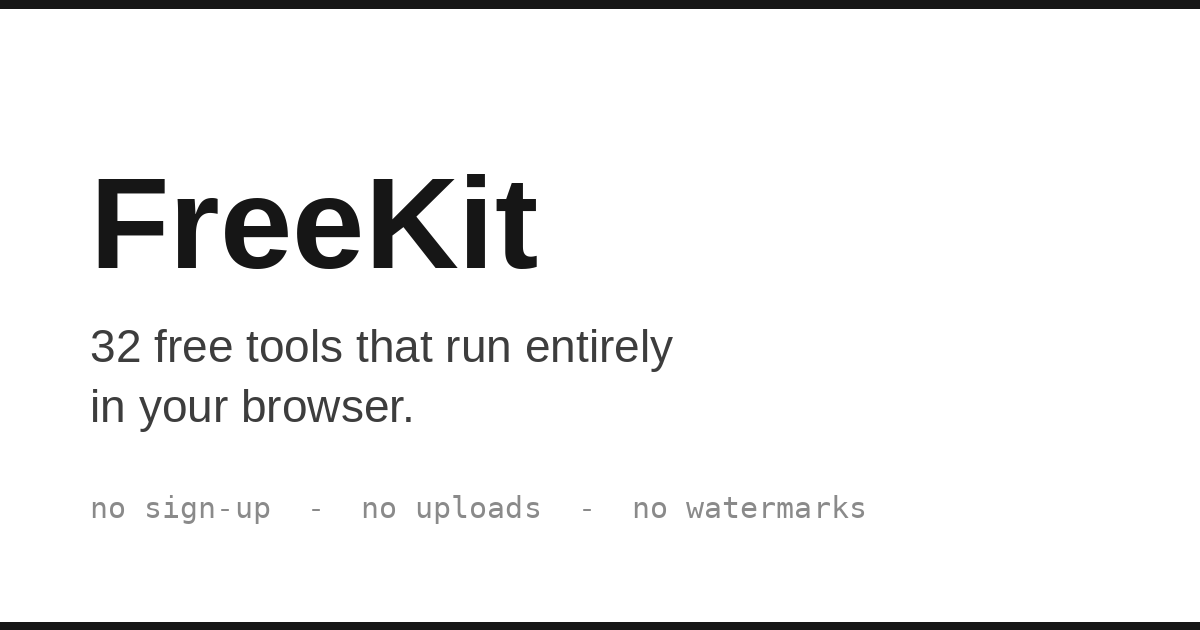
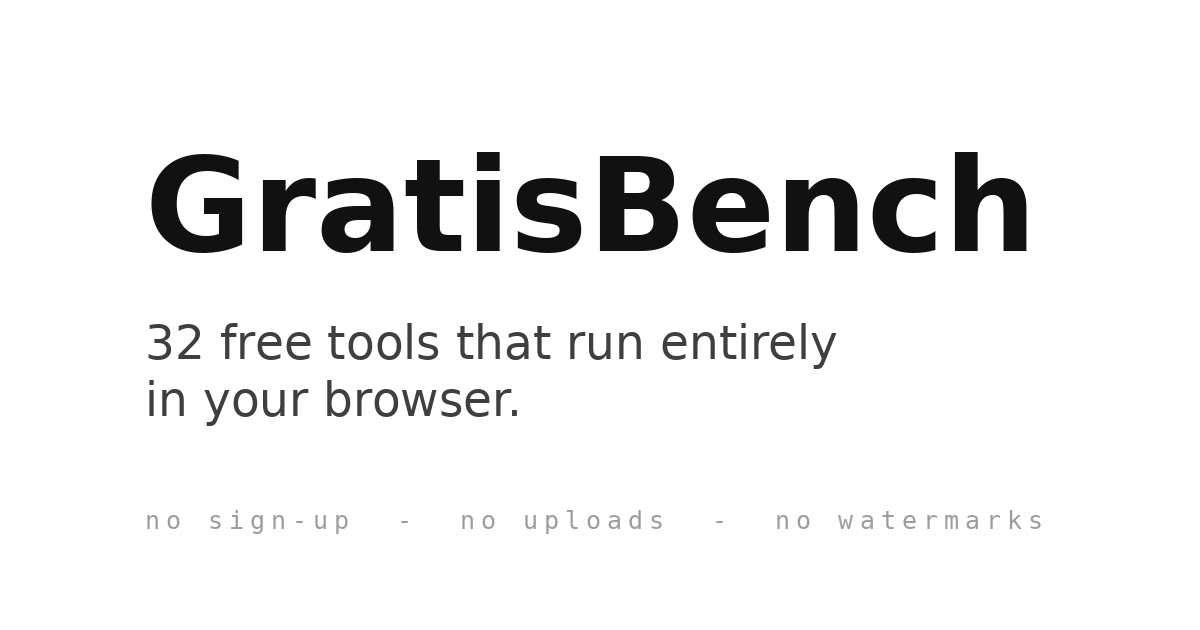
Rename FreeKit to GratisBench; add free-tools meta tags for SEO

diff --git a/src/lib/site.ts b/src/lib/site.ts
@@ -1,5 +1,5 @@
 // Site URL / base-path helpers. Used by layouts and pages so the site works
-// both at a domain root and under a subpath (e.g. GitHub Pages /freekit/).
+// both at a domain root and under a subpath (e.g. GitHub Pages /gratisbench/).
 // Never hardcode absolute internal links like "/pdf-tools" — use basePath().
 
 /** Prefix an internal path with the configured base path. */
@@ -11,7 +11,7 @@ export function basePath(p: string): string {
 
 /** Absolute site URL from the Astro config (SITE_URL env). No trailing slash. */
 export function siteUrl(site: URL | undefined): string {
-  return (site?.toString() ?? 'https://www.freekit.app').replace(/\/$/, '');
+  return (site?.toString() ?? 'https://www.gratisbench.com').replace(/\/$/, '');
 }
 
 // Donation page URL shown as the "Donate" button in the site header (desktop
@@ -26,4 +26,4 @@ export const DONATE_URL = 'https://ko-fi.com/anuragnepal';
 export const ANALYTICS_CODE = '';
 
 // GitHub repo used by the /feedback page to open prefilled issues.
-export const GITHUB_REPO = 'nepalanurag/freekit';
+export const GITHUB_REPO = 'nepalanurag/gratisbench';

diff --git a/src/lib/og-core.ts b/src/lib/og-core.ts
@@ -94,7 +94,7 @@ export function exampleOgSpec(): OgSpec {
   return {
     headline: 'Small tools that run in your browser',
     subtext: 'Free, no accounts, no watermarks. Your files never leave your device.',
-    brand: 'FreeKit',
+    brand: 'GratisBench',
     presetId: 'og',
     themeId: 'paper',
     pattern: 'dots',
@@ -273,7 +273,7 @@ export function layoutOg(spec: OgSpec): OgLayout {
   };
 }
 
-/** "freekit-og-1200x630.png" style download names. */
+/** "gratisbench-og-1200x630.png" style download names. */
 export function ogFileName(brand: string, presetId: string): string {
   const preset = ogPresetById(presetId);
   const slug = brand.trim().toLowerCase().replace(/[^a-z0-9]+/g, '-').replace(/^-+|-+$/g, '').slice(0, 30);

diff --git a/src/pages/sitemap.xml.ts b/src/pages/sitemap.xml.ts
@@ -7,7 +7,7 @@ import type { APIRoute } from 'astro';
 const pageFiles = import.meta.glob('./*.astro');
 
 export const GET: APIRoute = ({ site }) => {
-  const base = (site?.toString() ?? 'https://www.freekit.app/').replace(/\/$/, '');
+  const base = (site?.toString() ?? 'https://www.gratisbench.com/').replace(/\/$/, '');
 
   const urls = Object.keys(pageFiles)
     .map((p) => p.replace(/^\.\//, '').replace(/\.astro$/, ''))

diff --git a/src/lib/pdf2word-core.ts b/src/lib/pdf2word-core.ts
@@ -300,7 +300,7 @@ export async function assembleDocx(pages: DocPage[], title = 'Converted document
   }
   const doc = new Document({
     title,
-    creator: 'FreeKit PDF to Word',
+    creator: 'GratisBench PDF to Word',
     sections: [{ children }],
   });
   // Packer.toBuffer() needs Node's Buffer and throws in browsers

diff --git a/src/styles/global.css b/src/styles/global.css
@@ -1,4 +1,4 @@
-/* FreeKit v4 — "built by a person". No webfonts, no theme, no texture.
+/* GratisBench v4 — "built by a person". No webfonts, no theme, no texture.
    System type, black on white, blue links, one dark button.
    Every choice has a reason; see the design brief. Tool internals untouched. */
 :root {

diff --git a/src/tools/home-demo.ts b/src/tools/home-demo.ts
@@ -51,7 +51,7 @@ export function initHomeDemo(): void {
     if (!current) return;
     const a = document.createElement('a');
     a.href = current;
-    a.download = 'freekit-qr.png';
+    a.download = 'gratisbench-qr.png';
     document.body.appendChild(a);
     a.click();
     a.remove();

diff --git a/README.md b/README.md
@@ -1,8 +1,8 @@
-# FreeKit
+# GratisBench
 
 Free browser-based tools. 32 tools, zero signup, zero uploads: every file is processed locally in the visitor's browser and never touches a server.
 
-Test site: https://nepalanurag.github.io/freekit/
+Test site: https://nepalanurag.github.io/gratisbench/
 
 ## Tools
 
@@ -48,8 +48,8 @@ npm run verify
 
 Pushes to `main` trigger `.github/workflows/deploy.yml`, which builds and deploys to GitHub Pages. Two environment variables control the output:
 
-- `SITE_URL`: absolute site URL (production default `https://www.freekit.app`)
-- `BASE_PATH`: subpath the site is served from (e.g. `/freekit/` for GitHub Pages testing)
+- `SITE_URL`: absolute site URL (production default `https://www.gratisbench.com`)
+- `BASE_PATH`: subpath the site is served from (e.g. `/gratisbench/` for GitHub Pages testing)
 
 Always push the source tree, never `dist/`. The tree-push helper replaces the whole branch, so verify `.github/workflows/deploy.yml` still exists after pushing.
 

diff --git a/DESIGN_BRIEF.md b/DESIGN_BRIEF.md
@@ -1,4 +1,4 @@
-# FreeKit Design Brief (v4)
+# GratisBench Design Brief (v4)
 
 Written 2026-09-24 after the v3 redesign was rejected as looking AI-generated.
 Based on a web-research pass on human vs. AI-looking web design (report:
